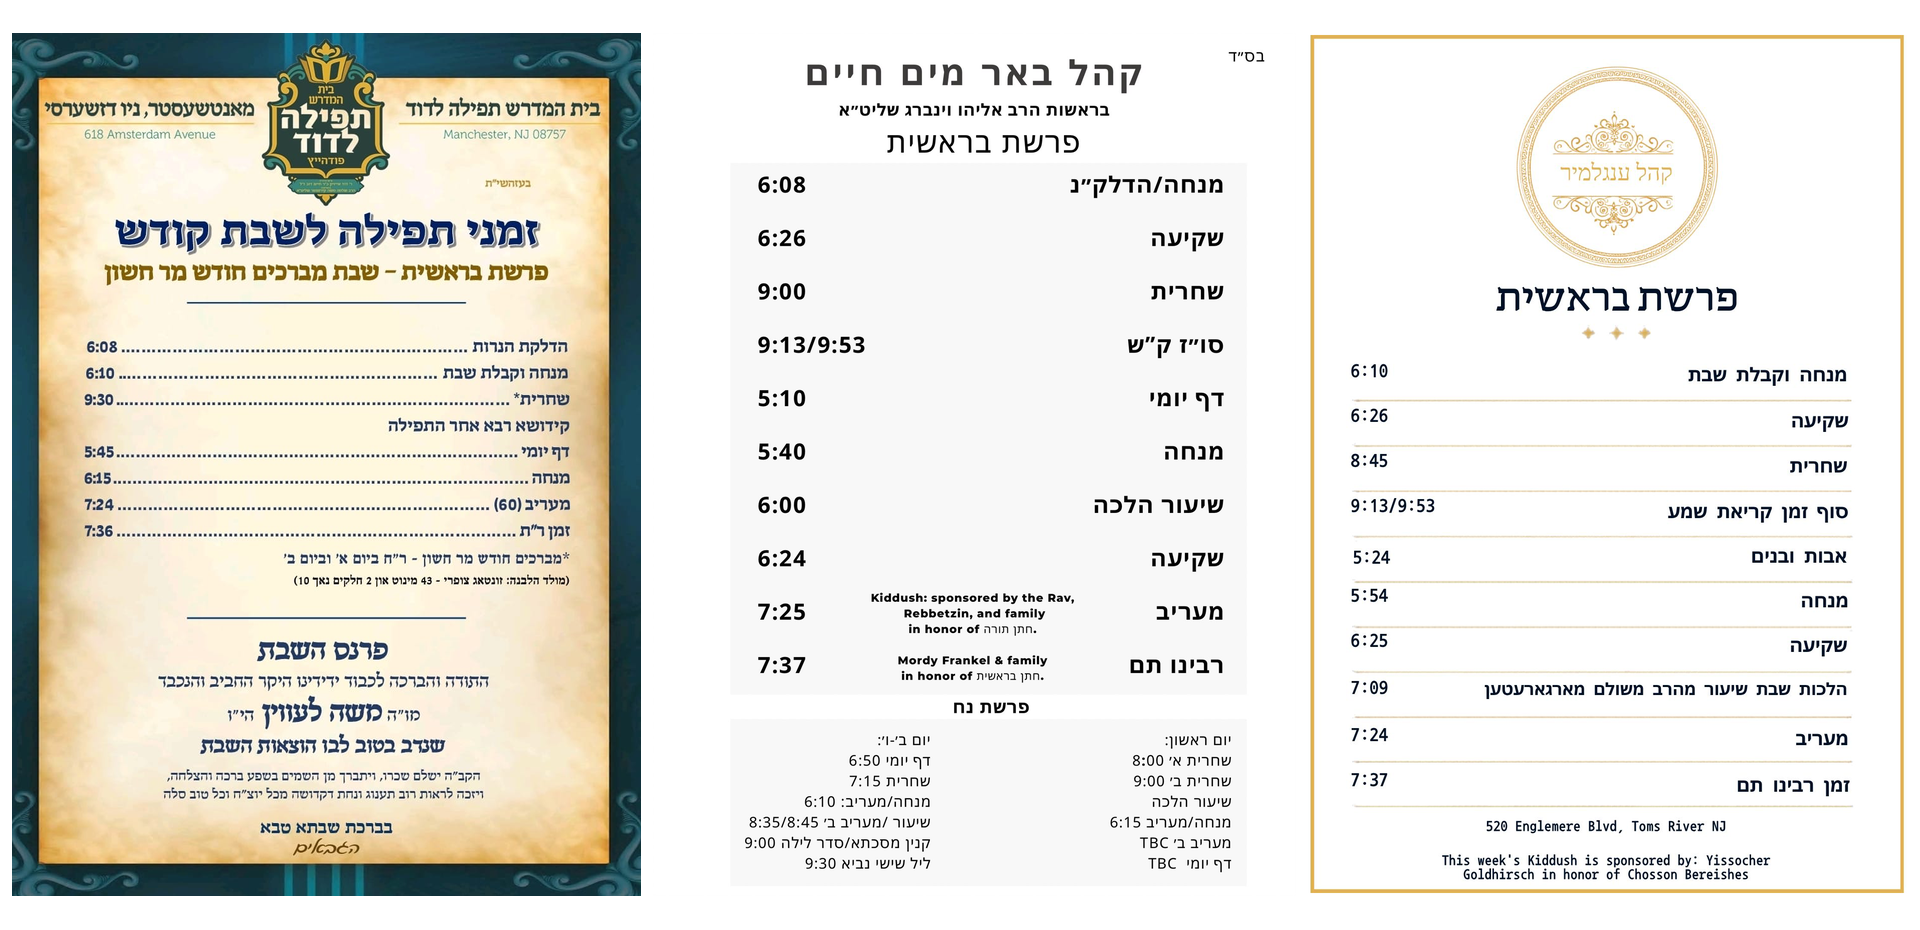
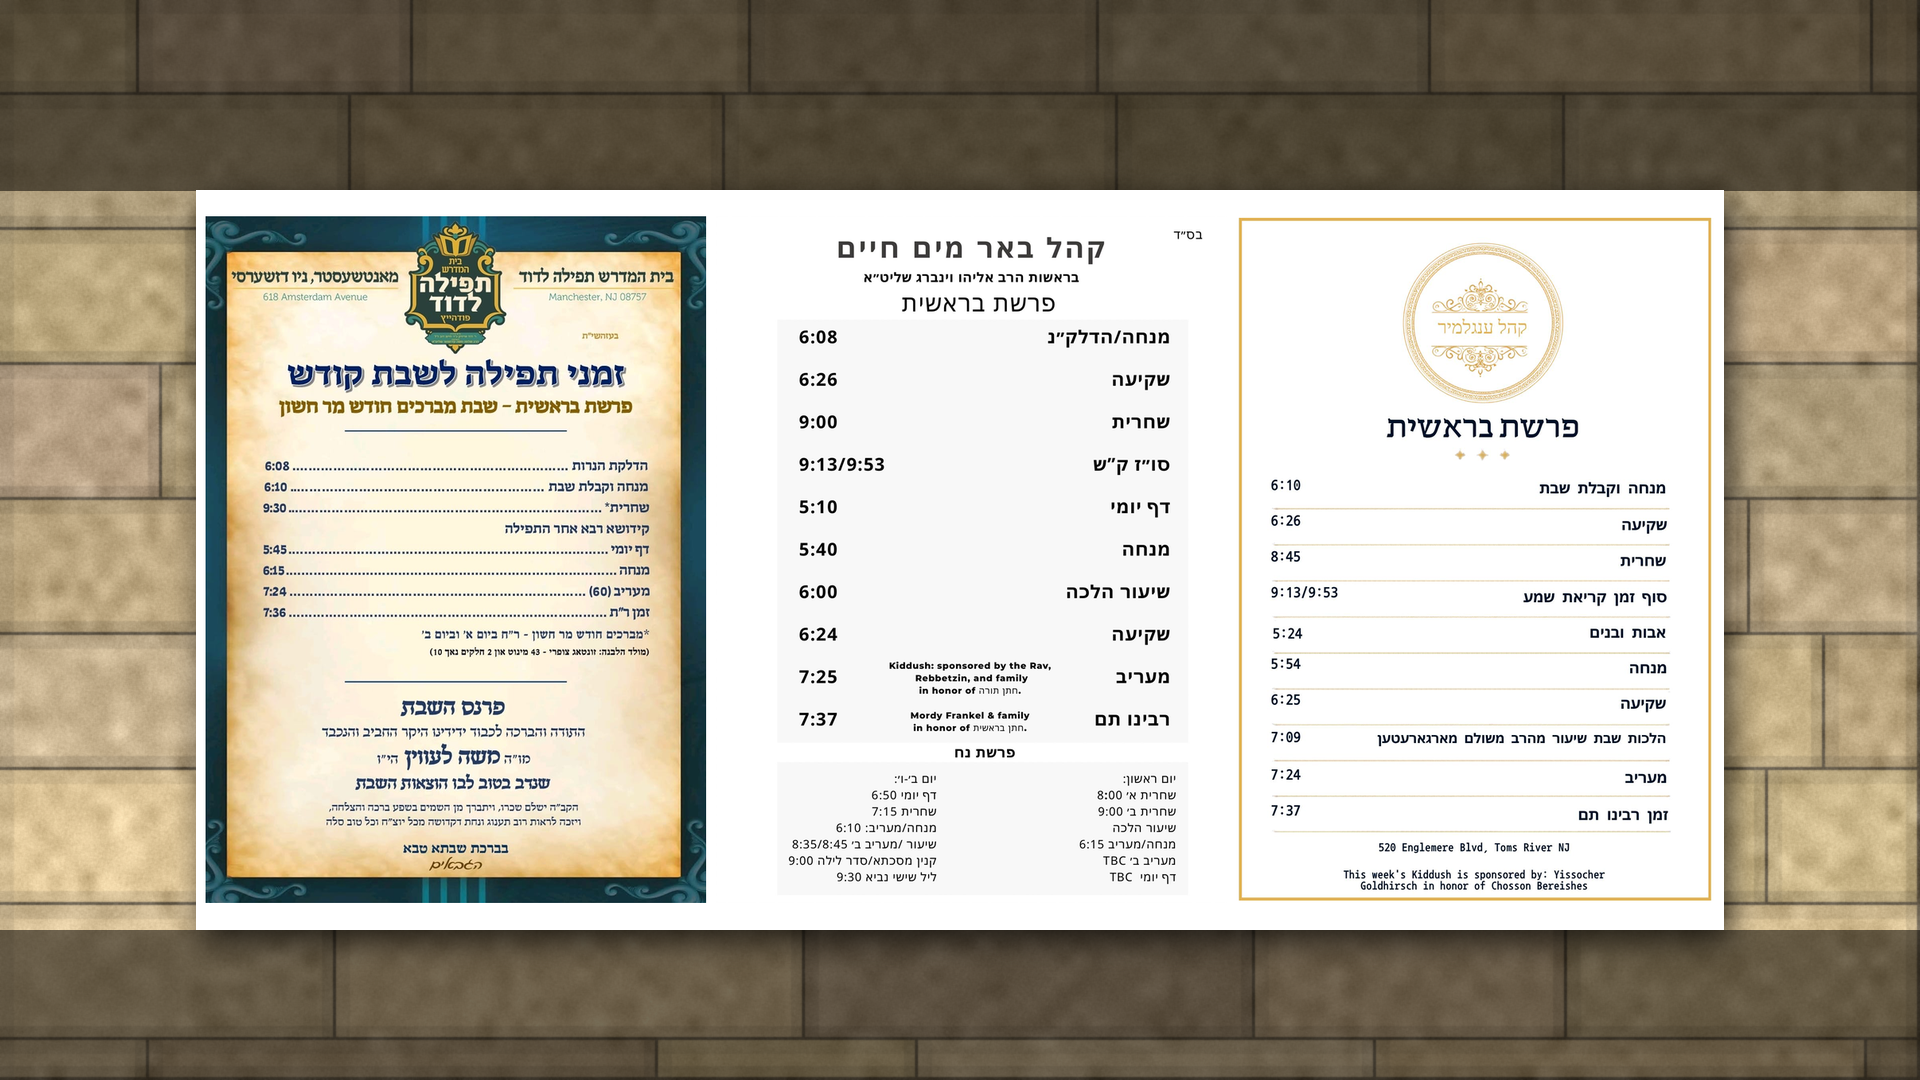
TV frame: stone backdrop, schedule at 80%, header/clock bands
Claude-Session: https://claude.ai/code/session_01GmHKJEXdGjcrhjHMhurTm5

diff --git a/tools/compose.py b/tools/compose.py
@@ -1,0 +1,82 @@
+"""Compose the 1920x1080 TV frame: Kotel-style stone wall, schedule at 80%, dark bands for header/clock."""
+import sys
+import numpy as np
+from PIL import Image, ImageDraw, ImageFilter
+
+W, H = 1920, 1080
+TOP, BOTTOM = 190, 150  # header band, clock band
+SCALE = 0.8
+
+sched_path, out_path = sys.argv[1], sys.argv[2]
+bg_path = sys.argv[3] if len(sys.argv) > 3 else None
+rng = np.random.default_rng(7)
+
+
+def stone_wall():
+    # Large Herodian-style limestone ashlars with margins, warm Jerusalem-stone palette.
+    img = np.zeros((H, W, 3), np.float32)
+    base = np.array([226, 204, 168], np.float32)
+    row_h = 135
+    y = -40
+    r = 0
+    while y < H:
+        x = -rng.integers(0, 300)
+        while x < W:
+            w = int(rng.integers(260, 520))
+            tint = base * rng.uniform(0.86, 1.06) * np.array([1.0, rng.uniform(0.97, 1.0), rng.uniform(0.9, 0.98)], np.float32)
+            x0, x1, y0, y1 = max(x, 0), min(x + w, W), max(y, 0), min(y + row_h, H)
+            if x1 > x0 and y1 > y0:
+                img[y0:y1, x0:x1] = tint
+                # chiselled margin: slightly darker border inside each block
+                m = 14
+                img[y0:min(y0 + m, y1), x0:x1] *= 0.93
+                img[max(y1 - m, y0):y1, x0:x1] *= 0.9
+                img[y0:y1, x0:min(x0 + m, x1)] *= 0.93
+                img[y0:y1, max(x1 - m, x0):x1] *= 0.9
+                # mortar joint
+                img[max(y1 - 3, y0):y1, x0:x1] = base * 0.45
+                img[y0:y1, max(x1 - 3, x0):x1] = base * 0.45
+            x += w
+        y += row_h
+        r += 1
+    noise = rng.normal(0, 9, (H, W, 1)).astype(np.float32)
+    coarse = np.array(Image.fromarray(rng.normal(128, 40, (H // 16, W // 16)).astype(np.uint8)).resize((W, H), Image.BICUBIC), np.float32)[..., None]
+    img = img + noise + (coarse - 128) * 0.25
+    # warm evening light, darker toward the top
+    grad = np.linspace(0.78, 1.0, H, dtype=np.float32)[:, None, None]
+    img *= grad
+    return Image.fromarray(np.clip(img, 0, 255).astype(np.uint8)).filter(ImageFilter.GaussianBlur(0.8))
+
+
+if bg_path:
+    bg = Image.open(bg_path).convert("RGB")
+    s = max(W / bg.width, H / bg.height)
+    bg = bg.resize((round(bg.width * s), round(bg.height * s)), Image.LANCZOS)
+    l, t = (bg.width - W) // 2, (bg.height - H) // 2
+    frame = bg.crop((l, t, l + W, t + H))
+else:
+    frame = stone_wall()
+
+frame = frame.convert("RGBA")
+# dark translucent bands so white header/clock text stays readable
+bands = Image.new("RGBA", (W, H), (0, 0, 0, 0))
+d = ImageDraw.Draw(bands)
+d.rectangle([0, 0, W, TOP], fill=(20, 16, 10, 150))
+d.rectangle([0, H - BOTTOM, W, H], fill=(20, 16, 10, 150))
+frame = Image.alpha_composite(frame, bands)
+
+sched = Image.open(sched_path).convert("RGBA")
+sw, sh = round(sched.width * SCALE), round(sched.height * SCALE)
+avail = H - TOP - BOTTOM
+if sh > avail:
+    k = avail / sh
+    sw, sh = round(sw * k), round(sh * k)
+sched = sched.resize((sw, sh), Image.LANCZOS)
+x, y = (W - sw) // 2, TOP + (avail - sh) // 2
+
+shadow = Image.new("RGBA", (W, H), (0, 0, 0, 0))
+ImageDraw.Draw(shadow).rectangle([x + 6, y + 10, x + sw + 6, y + sh + 10], fill=(0, 0, 0, 170))
+frame = Image.alpha_composite(frame, shadow.filter(ImageFilter.GaussianBlur(14)))
+frame.alpha_composite(sched, (x, y))
+frame.convert("RGB").save(out_path, optimize=True)
+print(out_path, (x, y, sw, sh))
